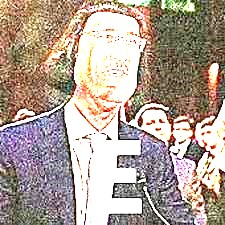
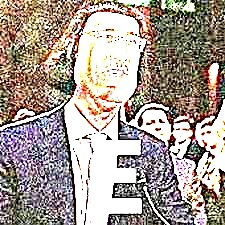
Commit 6
bug-fix, from Commit 5

diff --git a/STEPS.md b/STEPS.md
@@ -7,7 +7,7 @@ Commit 2 -- Update STEPS.md, Increase brightness on memee.jpg (main)<br>
 Commit 3 -- Update STEPS.md, Increase saturation on memee.jpg (bug-fix)<br>
 Commit 4 -- Update STEPS.md, Increase saturation on memee.jpg (bug-fix)<br>
 Commit 5 -- Merge 2 and 4, Resolve conflict in STEPS.md and memee.jpg (bug-fix)<br>
-Commit 6 -- <br>
+Commit 6 -- Update STEPS.md, Increase sharpness on memee.jpg (bug-fix)<br>
 Commit 7 -- <br>
 Commit 8 -- <br>
 Commit 9 -- <br>
